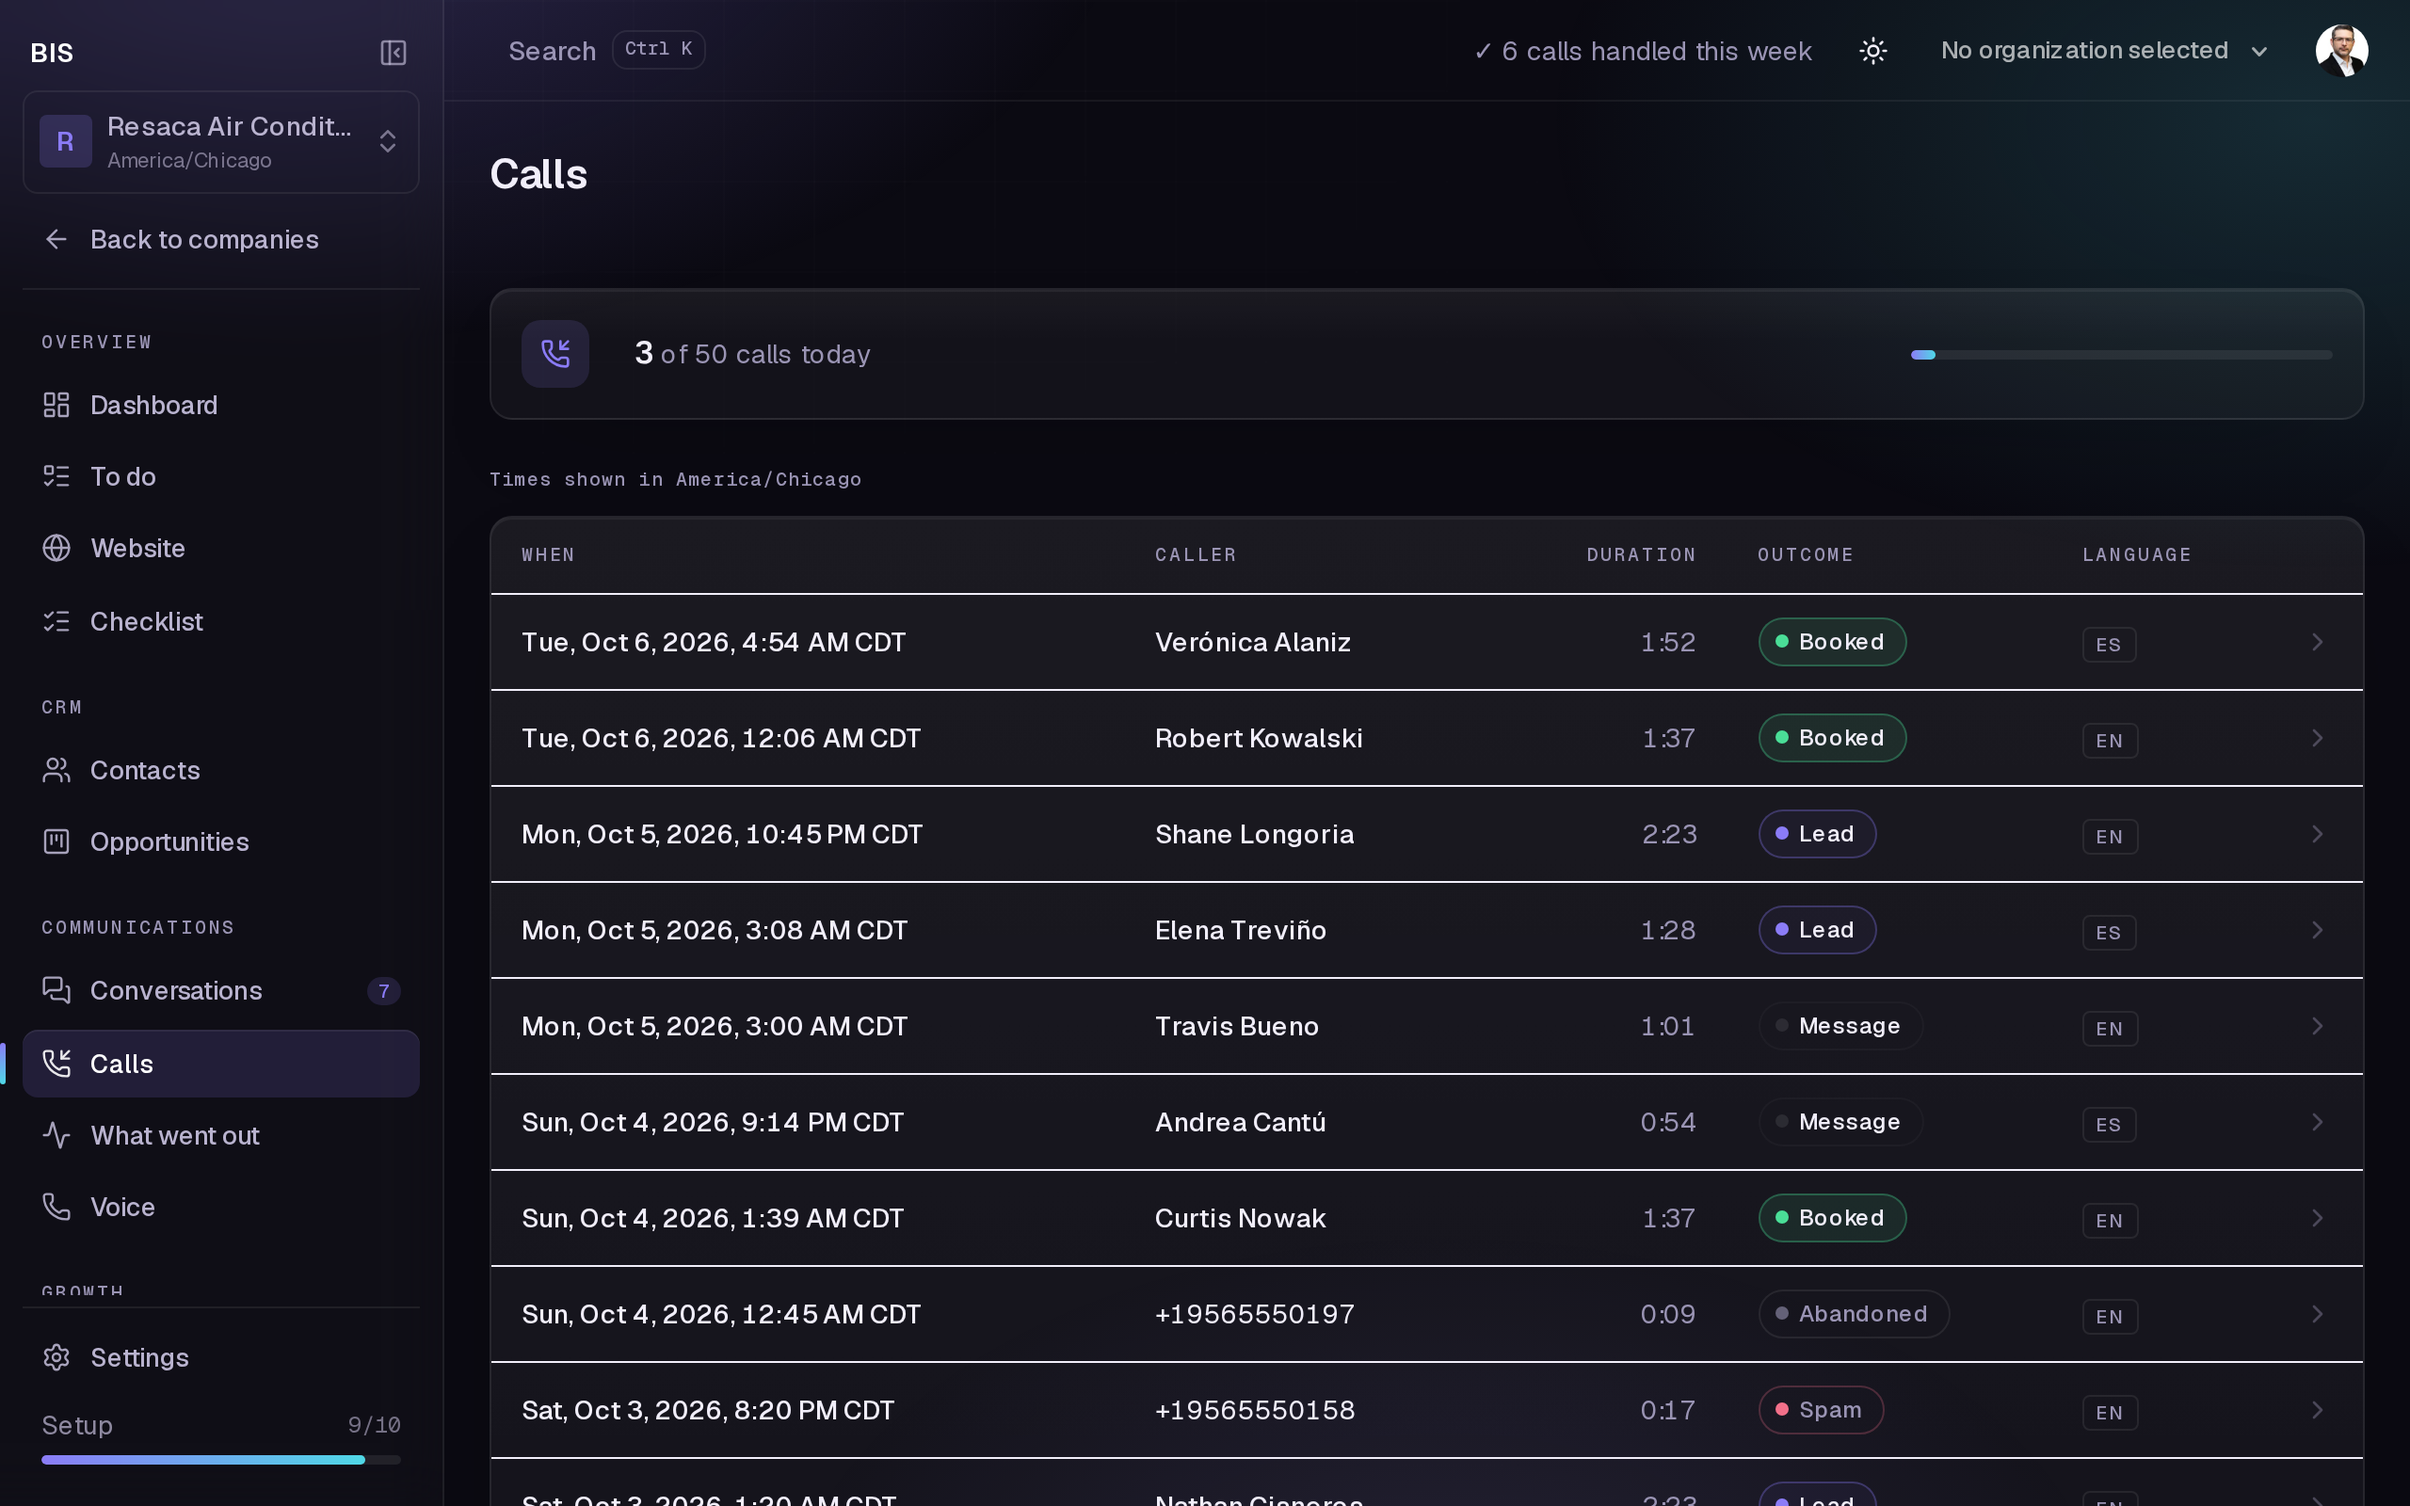
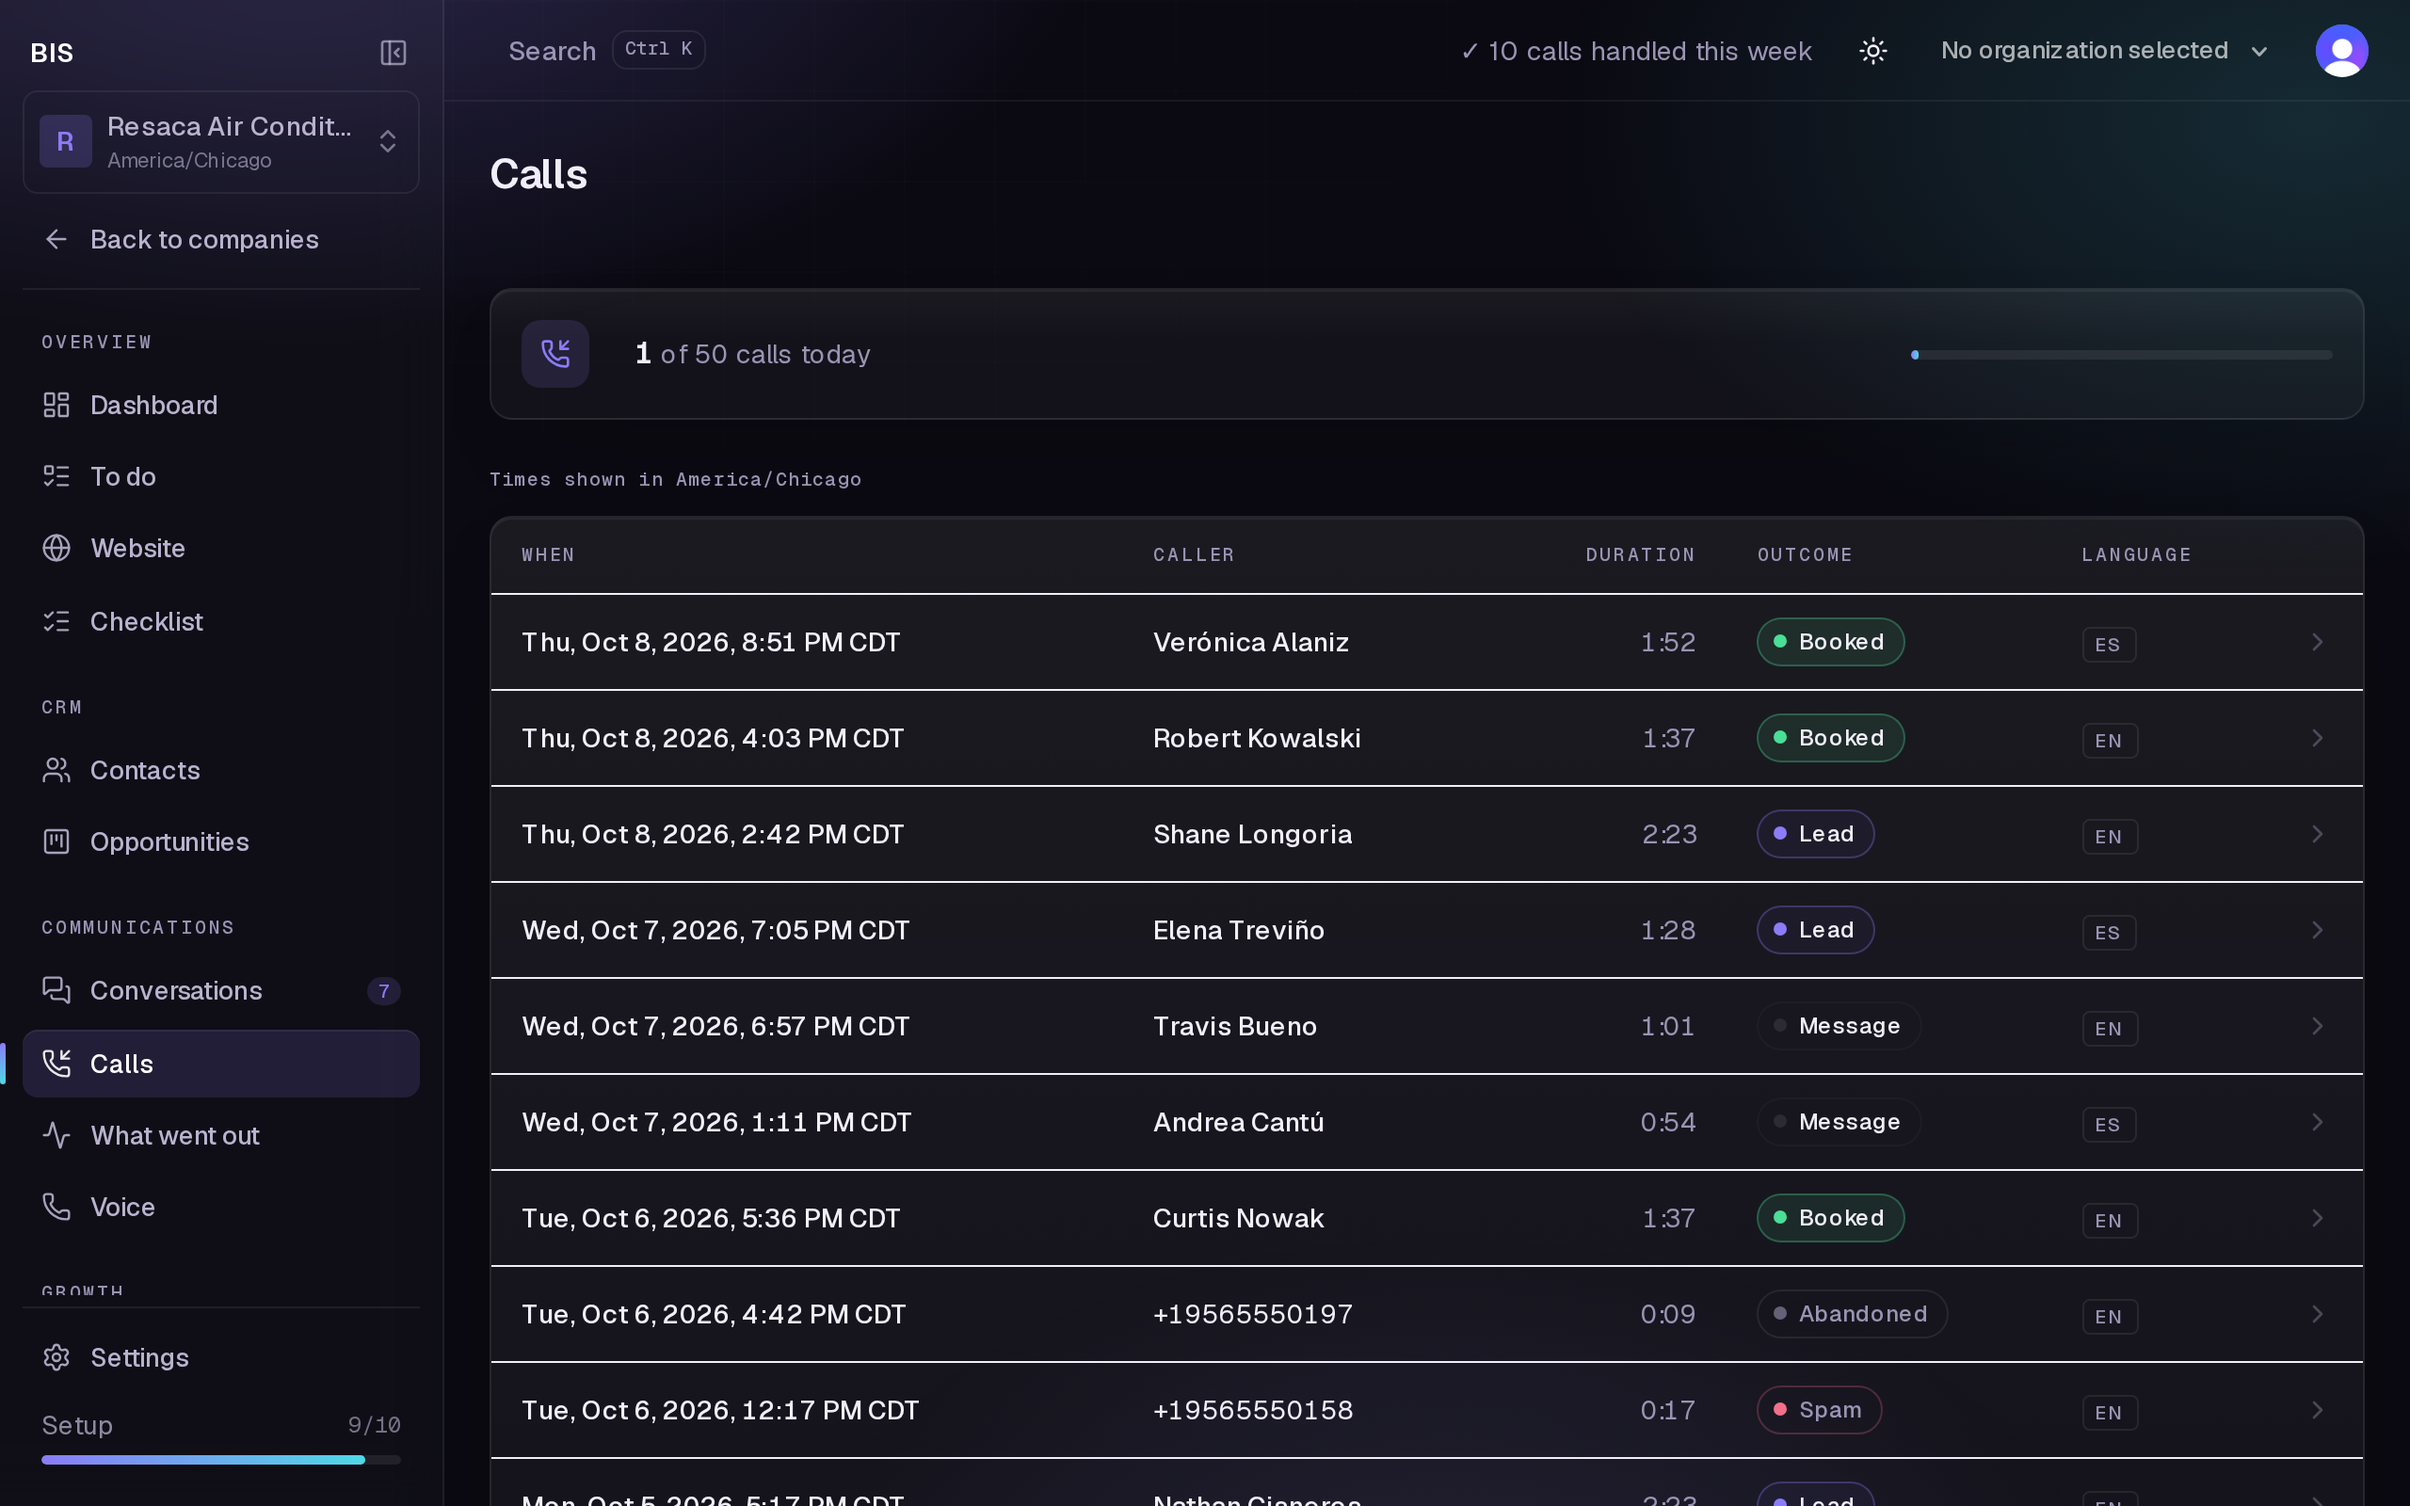
Screenshots: retake the six product captures (Oct 9, CI database) (#68)
New captures from bis-platform's screenshots.yml, run 37914950092,
seeded and shot at 5 AM CDT on Fri Oct 9 against the CI database
rather than production. Same files and same sizes as before.

What changed in them:
- The corner avatar is the default one, not a real person's photo. The
  capture now signs in as a throwaway agency user.
- The dashboard gained a "LAST 7 DAYS" caption above its KPIs.
- The demo data was re-seeded: the Spanish call is now Thu Oct 8 at
  8:51 PM CDT.

Home page hotspots: the new caption pushed the KPI row and the activity
feed down by 4.9% of the capture, so all three markers move down 5
points. Checked at 1440px and 390px: each marker still lands on its own
card. The first marker's title now says "in the last 7 days", which is
what the card it sits on says, instead of "this week".

The /platform zoom points and the quoted Spanish line were checked
against the new captures and are unchanged.

Claude-Session: https://claude.ai/code/session_01HoAPGkJC14e8DDBrCd7inF

diff --git a/src/app/[locale]/page.tsx b/src/app/[locale]/page.tsx
@@ -35,11 +35,15 @@ export async function generateMetadata({ params }: { params: Promise<{ locale: s
  * 9:15 PM Spanish call) below the bottom of the capture. That marker now sits
  * on the after-hours tile, which is the same claim made by the number rather
  * than by one row of it.
+ *
+ * Retaken 2026-10-09: a "LAST 7 DAYS" caption above the KPI row pushed the
+ * KPIs and the activity feed down by 61px of 1250 (4.9%), so every marker
+ * moved down 5 points to land on the same spot within its card.
  */
 const SPOTS = [
-  { left: 34.5, top: 46 },
-  { left: 71, top: 42 },
-  { left: 80, top: 79 },
+  { left: 34.5, top: 51 },
+  { left: 71, top: 47 },
+  { left: 80, top: 84 },
 ] as const;
 
 /**
